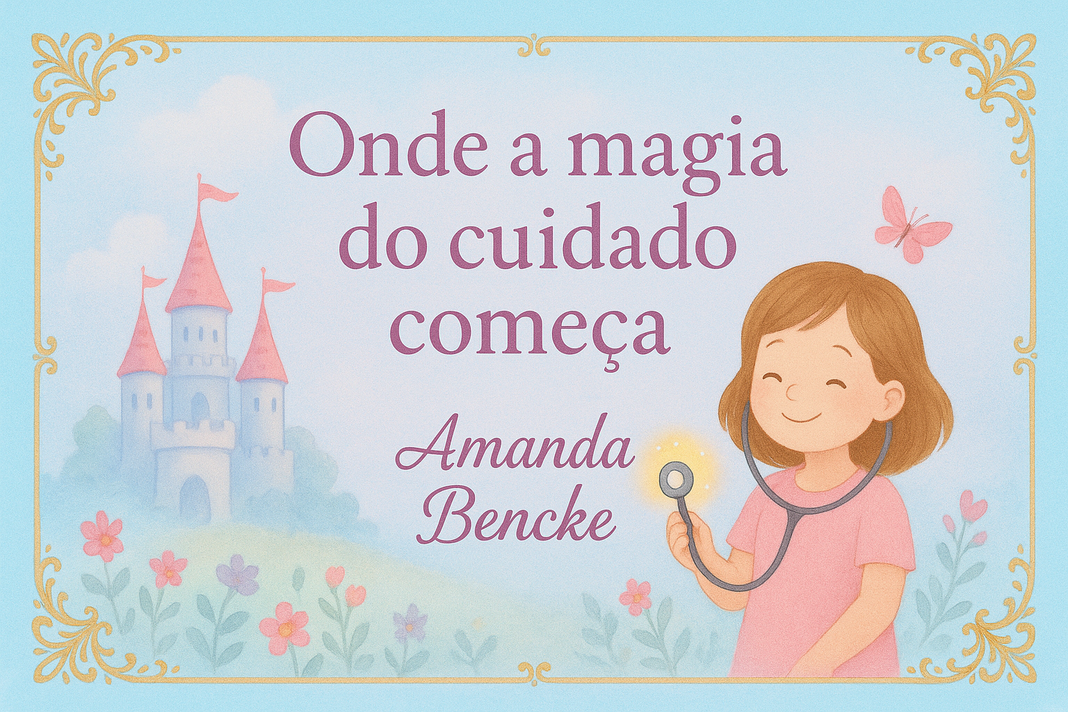
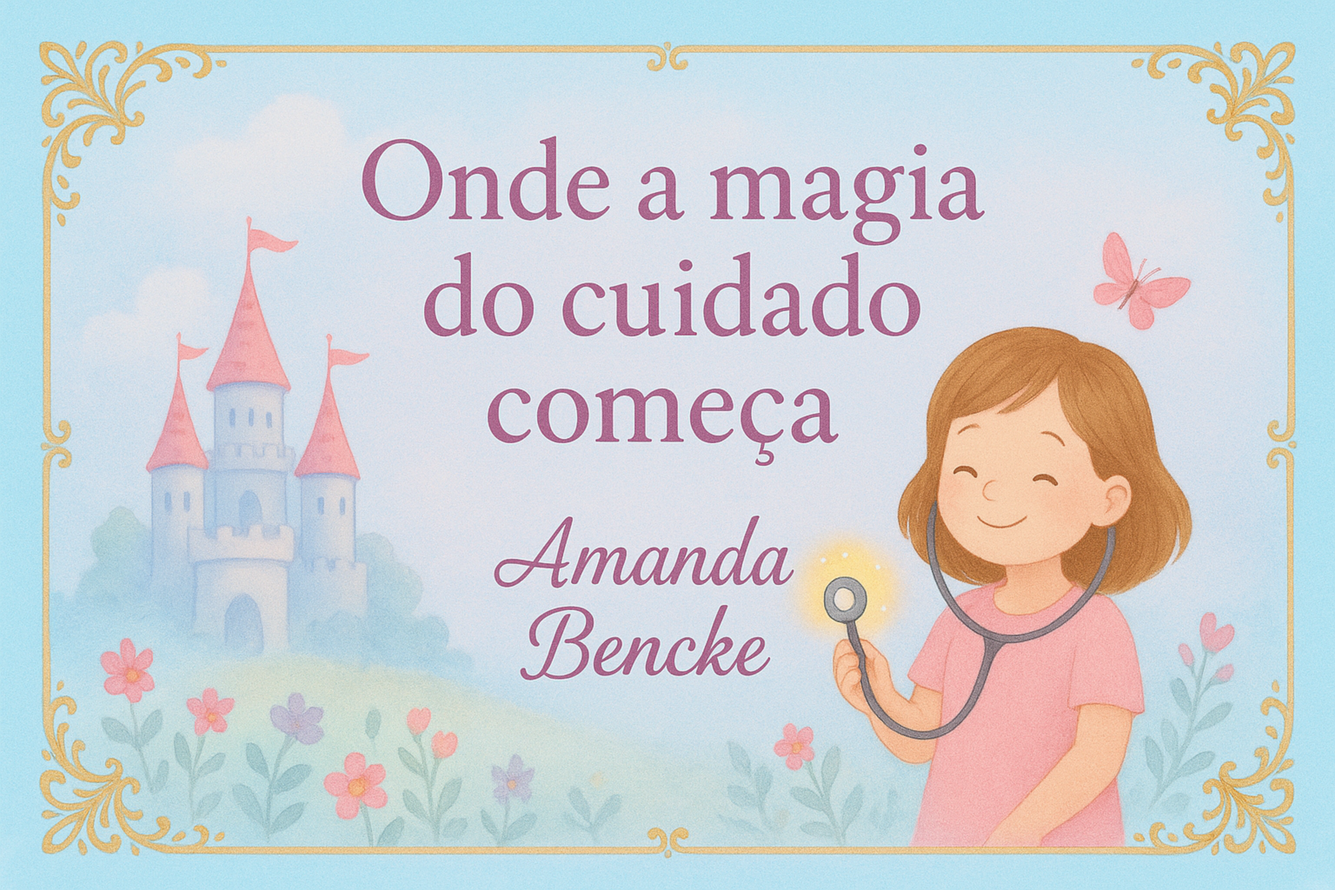
deploy

diff --git a/index.html b/index.html
@@ -37,7 +37,6 @@
      <!-- MENU -->
      <section class="navbar custom-navbar navbar-fixed-top" role="navigation">
           <div class="container">
-
                <div class="navbar-header">
                     <button class="navbar-toggle" data-toggle="collapse" data-target=".navbar-collapse">
                          <span class="icon icon-bar"></span>
@@ -58,10 +57,11 @@
                          <li><a href="#courses" class="smoothScroll">Serviço</a></li>
                          <li><a href="#testimonial" class="smoothScroll">Depoimentos</a></li>
                          <li><a href="#contact" class="smoothScroll">Contato</a></li>
+                         <li class="contact"><a href="https://api.whatsapp.com/send/?phone=5541984987470&text&type=phone_number&app_absent=0" target="_blank"><i class="fa fa-phone"></i>41 98498-7470</a></li>
                     </ul>
 
                     <ul class="nav navbar-nav navbar-right">
-                         <li><a href="#"><i class="fa fa-phone"></i> (41) 99176 -3509</a></li>
+                         
                     </ul>
                </div>
 
@@ -75,9 +75,14 @@
 
                     <div id="flipbook">
                          <div class="page capa"></div>
-
-                         <div class="page">Página 1: Introdução</div>
-                         <div class="page">Página 2: Conteúdo</div>
+                         
+                         <div class="page page1">
+                              <h1>Olá! Sou a Amanda Bencke, pediatra.</h1>
+                              <h3>Acredito na pediatria como rede de apoio - ciência e afeto caminhando lado a lado.</h3>
+                              <a href="#feature" class="section-btn btn btn-default smoothScroll">Descubra mais</a>
+                         </div>
+                         
+                         <div class="page page2">Página 2: Conteúdo</div>
                          <div class="page">Página 3: Curiosidades</div>
                          <div class="page">Página 4: Conclusão</div>
                          <div class="page">📕 Contra-capa</div>
@@ -85,7 +90,16 @@
 
 
                     <div class="owl-carousel owl-theme home-slider">
+
                          <div class="item item-first">
+                              <div class="caption">
+                                   <div class="container">
+                                        <div class="col-md-8 col-sm-12"></div>
+                                   </div>
+                              </div>
+                         </div>
+                         
+                         <div class="item item-second">
                               <div class="caption">
                                    <div class="container">
                                         <div class="col-md-8 col-sm-12">
@@ -97,7 +111,7 @@
                               </div>
                          </div>
 
-                         <div class="item item-second">
+                         <div class="item item-third">
                               <div class="caption">
                                    <div class="container">
                                         <div class="col-md-10 col-sm-12">
@@ -109,7 +123,7 @@
                               </div>
                          </div>
 
-                         <div class="item item-third">
+                         <div class="item item-fourth">
                               <div class="caption">
                                    <div class="container">
                                         <div class="col-md-6 col-sm-8">
@@ -566,7 +580,7 @@ Aqui, você vai encontrar sempre uma pediatra muito disposta a ajudar.</p>
                                    <h2>Endereços</h2>
                               </div>
                               <address>
-                                   <p>1800 dapibus a tortor pretium,<br> Integer nisl dui, ABC 12000</p>
+                                   <p>Rua João Bettega, 101, loja 03 - Portão,<br> Curitiba, Brazil - 81070-000</p>
                               </address>
 
                               <ul class="social-icon">
@@ -576,7 +590,7 @@ Aqui, você vai encontrar sempre uma pediatra muito disposta a ajudar.</p>
                               </ul>
 
                               <div class="copyright-text"> 
-                                   <p>Copyright &copy; 2024 7 Consultoria</p>
+                                   <p>Copyright &copy; 2025</p>
                                    
                                    
                               </div>
@@ -589,10 +603,10 @@ Aqui, você vai encontrar sempre uma pediatra muito disposta a ajudar.</p>
                                    <h2>Informações de contato</h2>
                               </div>
                               <address>
-                                   <p>Reponsável Técnico:</p>
-                                   <p>Vinicius Guilherme Eliseu</p>
-                                   <p>CREA PR - 185772/D</p>
-                                   <p><a href="mailto:youremail.co">hello@youremail.co</a></p>
+                                   <p>Amanda Bencke</p>
+                                   <p>CRM/PR: 40.986</p>
+                                   <p><a href="mailto:">hello@youremail.co</a></p>
+                                   <p><a href="tel:41 98498-7470">41 98498-7470</a></p>
                               </address>
 
                               <div class="footer_menu">

diff --git a/css/templatemo-style.css b/css/templatemo-style.css
@@ -279,12 +279,11 @@ https://templatemo.com/tm-516-known
     margin-left: 8em;
   }
 
-  .custom-navbar .navbar-nav.navbar-right li a {
-    padding-right: 12px;
+  .custom-navbar .navbar-nav.navbar-nav-first li.contact {
     padding-left: 12px;
   }
 
-  .custom-navbar .navbar-nav.navbar-right li a .fa {
+  .custom-navbar .navbar-nav.navbar-nav-first li a .fa {
     background: #29ca8e;
     border-radius: 100%;
     color: #ffffff;
@@ -382,17 +381,21 @@ https://templatemo.com/tm-516-known
   .caption h3 a:hover { color: #FF3; }
 
   .home-slider .item-first {
-    background-image: url(../images/slider-image1.png) ;
+    background-image: url(../images/Amanda_Bencke_imagem/capa-livro.png) ;
 	 background-position: right;
   }
 
   .home-slider .item-second {
-    background-image: url(../images/slider-image2.jpg);
+    background-image: url(../images/slider-image1.png);
     background-position: center;
     
   }
 
   .home-slider .item-third {
+    background-image: url(../images/slider-image2.jpg)
+   }
+
+   .home-slider .item-fourth {
     background-image: url(../images/slider-image3.jpg)
    }
 

diff --git a/css/book.css b/css/book.css
@@ -1,10 +1,8 @@
 #flipbook {
-  width: 100%;
-  height: 650px;
-  margin: 100px 0px;
+  width: 98%;
+  max-height: 900px;
+  margin: 10px auto;
 }
-
-
 
 .page {
   background: white;
@@ -16,9 +14,23 @@
 }
 
 .capa{
-  background-image: url("/images/slider-image3.jpg");
+  background-image: url("../images/Amanda_Bencke_imagem/capa-livro.png");
+  background-size: cover;
+  background-position: center;
+  background-repeat: no-repeat;
+}
+
+.page1{
+  background-image: url('../images/slider-image1.png');
   background-size: cover;
   background-position: top;
+  background-repeat: no-repeat;
+}
+
+.page2{
+  background-image: url('../images/slider-image2.jpg');
+  background-size: cover;
+  background-position: center;
   background-repeat: no-repeat;
 }
 
